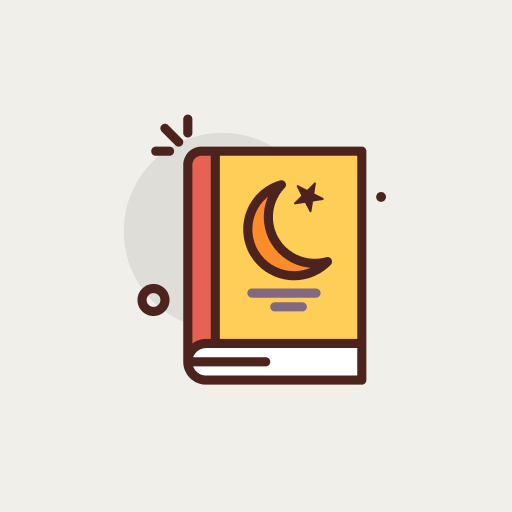
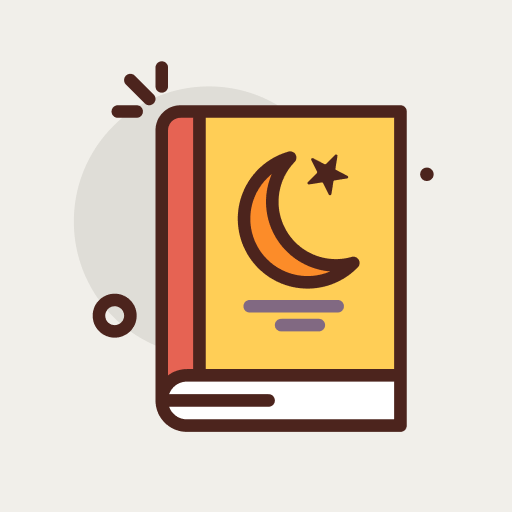
Add files via upload

Changed region(s): [[0.1562, 0.125, 0.8438, 0.8438]]

diff --git a/index.html b/index.html
@@ -28,6 +28,52 @@
 
   <style>
     /* =========================================================================
+       THMANYAH SERIF DISPLAY CUSTOM FONT-FACE DEFINITIONS
+       ========================================================================= */
+    @font-face {
+      font-family: 'thmanyah serif display';
+      src: url('./fonts/thmanyahserifdisplay-Light.otf') format('opentype');
+      font-weight: 300;
+      font-style: normal;
+      font-display: swap;
+    }
+    @font-face {
+      font-family: 'thmanyah serif display';
+      src: url('./fonts/thmanyahserifdisplay-Regular.otf') format('opentype');
+      font-weight: 400;
+      font-style: normal;
+      font-display: swap;
+    }
+    @font-face {
+      font-family: 'thmanyah serif display';
+      src: url('./fonts/thmanyahserifdisplay-Medium.otf') format('opentype');
+      font-weight: 500;
+      font-style: normal;
+      font-display: swap;
+    }
+    @font-face {
+      font-family: 'thmanyah serif display';
+      src: url('./fonts/thmanyahserifdisplay-Bold.otf') format('opentype');
+      font-weight: 600;
+      font-style: normal;
+      font-display: swap;
+    }
+    @font-face {
+      font-family: 'thmanyah serif display';
+      src: url('./fonts/thmanyahserifdisplay-Bold.otf') format('opentype');
+      font-weight: 700;
+      font-style: normal;
+      font-display: swap;
+    }
+    @font-face {
+      font-family: 'thmanyah serif display';
+      src: url('./fonts/thmanyahserifdisplay-Black.otf') format('opentype');
+      font-weight: 900;
+      font-style: normal;
+      font-display: swap;
+    }
+
+    /* =========================================================================
        ANEES DESIGN SYSTEM TOKENS (LIGHT & DARK MODES)
        ========================================================================= */
     :root {

diff --git a/sw.js b/sw.js
@@ -1,5 +1,14 @@
-const CACHE_NAME = 'anees-quran-v1';
-const ASSETS = ['./', './index.html', './manifest.json'];
+const CACHE_NAME = 'anees-quran-v2';
+const ASSETS = [
+  './',
+  './index.html',
+  './manifest.json',
+  './fonts/thmanyahserifdisplay-Light.otf',
+  './fonts/thmanyahserifdisplay-Regular.otf',
+  './fonts/thmanyahserifdisplay-Medium.otf',
+  './fonts/thmanyahserifdisplay-Bold.otf',
+  './fonts/thmanyahserifdisplay-Black.otf'
+];
 
 self.addEventListener('install', (e) => {
   self.skipWaiting();
